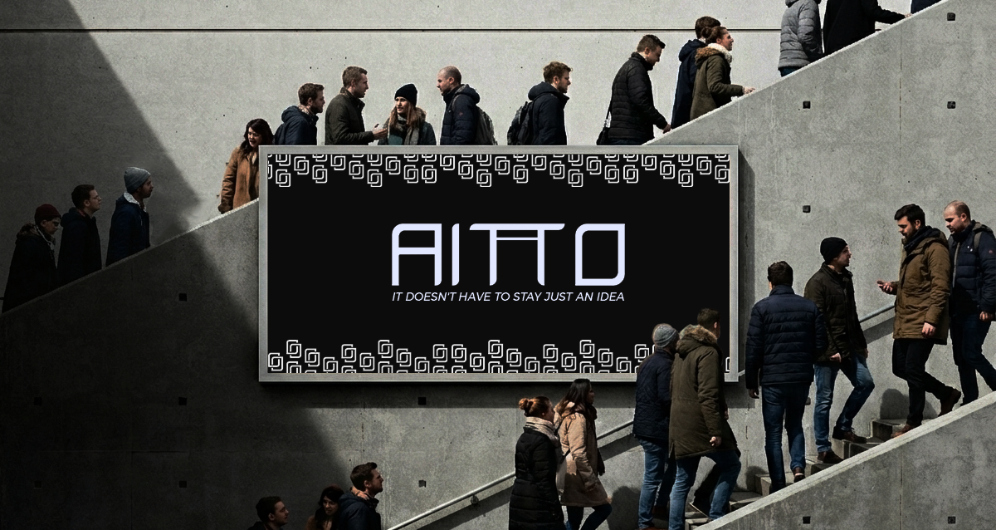
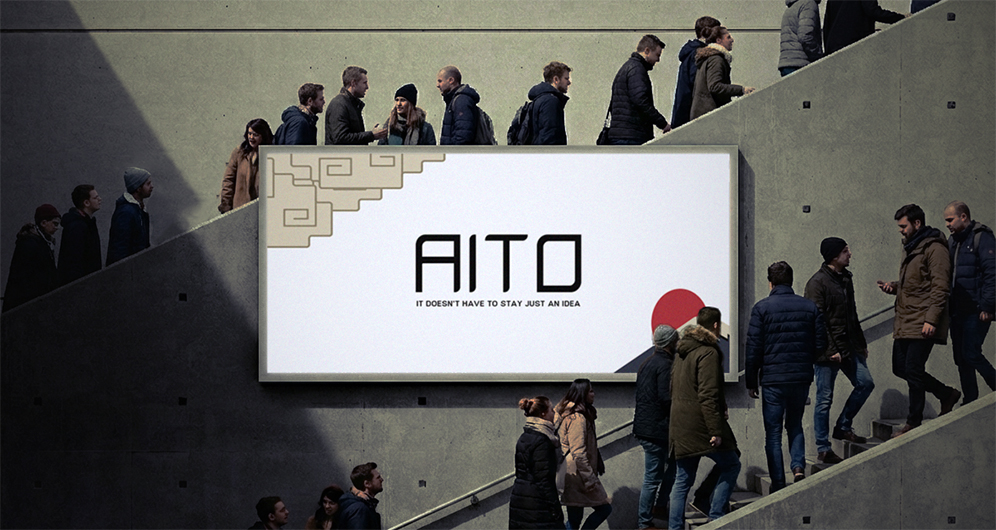
melhorias

diff --git a/Pt-br.html b/Pt-br.html
@@ -1,0 +1,85 @@
+<!DOCTYPE html>
+<html lang="en">
+<head>
+    <meta charset="UTF-8">
+    <meta http-equiv="X-UA-Compatible" content="IE=edge">
+    <meta name="viewport" content="width=device-width, initial-scale=1.0">
+    <title>AITO</title>
+   <link rel="shortcut icon" href="image/ico-p.ico" type="image/x-icon">
+    <link rel="stylesheet" href="style/all.css">
+</head>
+<body>
+    <nav>
+        <a href="/"><img src="image/aito3.png" alt="" class="logo"></a>
+        <div class="redes">
+            <a href="https://www.instagram.com/aittobranding/"
+             class="rds1 ani" target="_blank">
+                <img src="image/instagram.svg" alt="">
+            </a>
+            <a href="mailto:aittobranding@gmail.com"
+             class="rds2 ani" target="_blank">
+                <img src="image/arroba.svg" alt="">
+            </a>
+              <a href="index.html"
+             class="rds4 ani1" target="_parent">
+                <img src="image/traducao.svg" alt="">
+            </a>
+        </div>
+    </nav>
+    <img src="image/Mockup2.jpg" alt="" class="idrite">
+    <main>
+        <section class="abo">
+            <div class="about">
+                <div class="title">
+                    <h2>História Da Empresa</h2>
+                </div>
+                <p class="iam">
+                    A AITTO foi fundada em 2019 por mim, Jack Kennedy Silva. Naquela época, eu já tinha dois anos de experiência em web design e brand design, mas foi apenas em 2019 que eu realmente me especializei em design de marca. Foi isso que me levou a criar a AITTO, uma empresa focada na construção de identidades visuais.
+
+                    Enfrentei muitos desafios ao longo do caminho e quase desisti, mas, como todo bom brasileiro, segui em frente e resolvi os problemas. Como resultado, em 2024, consegui contratar meu primeiro funcionário. Atualmente a empresa conta com 11 pessoas para garantir que nossos clientes tenham resultados.
+                </p>
+            </div>
+            <div class="image">
+                <img src="image/mockups/4th.jpg" alt="" class="img">
+                <img src="image/mockups/arthur.jpg" alt="" class="img ">
+                <img src="image/mockups/darkangle.jpg" alt="" class="img">
+                <img src="image/mockups/studio7.jpg" alt="" class="img">
+            </div>
+            
+            <div class="image">
+                <img src="image/mockups/idrite.jpg" alt="" class="img tira">
+                <img src="image/mockups/hak.jpg" alt="" class="img tira">
+                <img src="image/mockups/last-lab.jpg" alt="" class="img tira">
+                <img src="image/mockups/jk.jpg" alt="" class="img tira">
+            </div>
+            <div class="skill">
+                <div class="title">
+                    <h2>QUEM SOMOS?</h2>
+                </div>
+                <p class="iam">
+                    Somos uma empresa especializada em criar identidades visuais. Isso inclui design de logotipo, tipografia, paletas de cores, papel timbrado, modelos de slides/apresentações, uniformes, manuais de marca e muito mais. Todos os nossos projetos são cuidadosamente planejados para trazer os melhores resultados para os nossos clientes.
+
+                    A identidade visual da sua marca define o seu público-alvo e o valor que você pode cobrar pelo seu produto ou serviço. Sua marca não pode ser confiada a qualquer um. Se você está procurando por um serviço de qualidade, eu ficaria feliz em trabalhar com você.
+                </p>
+            </div>
+        </section>
+        <section class="port-img">
+            <img class="imgp" src="image/port/idrite/id.jpg" alt="">
+            <img class="imgp" src="image/port/Flavory/Flavory.jpg" alt="">
+            <img class="imgp" src="image/port/4th/4th1.jpg" alt="">
+            <img class="imgp" src="image/port/dark/dark1.jpg" alt="">
+            <img class="imgp" src="image/port/carbon/carb1.jpg" alt="">
+            <img class="imgp" src="image/port/studio7/studio2.jpg" alt="">
+            <img class="imgp" src="image/port/last/last1.jpg" alt="">
+            <img class="imgp" src="image/port/os kabba/kabba1.jpg" alt="">
+            <img class="imgp" src="image/port/indra/indra.jpg" alt="">
+            <img class="imgp" src="image/port/mihail/mihail.jpg" alt="">
+            <img class="imgp" src="image/port/arthur/vender.jpg" alt="">
+            <img class="imgp" src="image/port/wake up/wake up2.png" alt="">
+        </section>
+    </main>
+    <footer>
+        <p>&copy 2026 - AITO</p>
+    </footer>
+</body>
+</html>

diff --git a/style/all.css b/style/all.css
@@ -1,9 +1,9 @@
 @charset "UTF-8";
 
 @font-face {
-    font-family: "AITOSans";
-    src: url("../font/AITOSans.ttf"); /* para IE */
-    src: local("AITOSans"), url("../font/AITOSans.ttf") format("truetype");
+    font-family: "Halfre";
+    src: url("../font/halfre.otf"); /* para IE */
+    src: local("halfre"), url("../font/halfre.otf") format("truetype");
 }
 :root {
     --color1: #0a0a0a;
@@ -12,12 +12,12 @@
     --color4: #323646;
 }
 * {
-    font-family: "AITOSans", Arial, Helvetica, sans-serif;
+    font-family: "halfre", Arial, Helvetica, sans-serif;
     margin: 0;
     padding: 0;
     overflow-x: hidden;
     box-sizing: border-box;
-    color: var(--color2);
+    color: var(--color4);
     transition: .2s;
     text-transform: uppercase;
 }
@@ -28,10 +28,10 @@ html {
     display: none;
 }
 body {
-    background: #D0C8B4;
+    background: var(--color2);
 }
 h2 {
-    color: var(--color3);
+    color: var(--color4);
 }
 a {
     text-decoration: none;
@@ -46,7 +46,7 @@ nav {
     align-items: center;
     width: 100vw;
     height: auto;
-    background: var(--color3);
+    background: var(--color4);
     padding: 5px 8%;
     padding-top: 5px;
 }
@@ -55,17 +55,18 @@ nav {
 }
 .logo {
     height: 31px;
-    width: 145px;
+    width: 95px;
 }
 .rds1 {
-    display: flex;
+   display: flex;
     justify-content: center;
     align-items: center;
     width: 40px;
     height: 40px;
-    background: var(--color1);
-    padding: 6px;
+    background: var(--color2);
+    padding: 8px;
     border-radius: 50%;
+    overflow: hidden;
 }
 .rds1 img {
     width: 40px;
@@ -73,11 +74,60 @@ nav {
 }
 .rds2 {
     display: flex;
+    justify-content: center;
+    align-items: center;
     width: 40px;
     height: 40px;
-    background: var(--color1);
+    background: var(--color2);
     padding: 8px;
     border-radius: 50%;
+    overflow: hidden;
+}
+.rds3 {
+    display: flex;
+    justify-content: center;
+    align-items: center;
+    width: 40px;
+    height: 40px;
+    background: var(--color2);
+    padding: 8px;
+    border-radius: 50%;
+    overflow: hidden;
+}
+.rds4 {
+    display: flex;
+    justify-content: center;
+    align-items: center;
+    width: 40px;
+    height: 40px;
+    background: var(--color3);
+    padding: 8px;
+    border-radius: 50%;
+    overflow: hidden;
+}
+.ani:hover {
+    animation: .2;
+    display: flex;
+    justify-content: center;
+    align-items: center;
+    width: 40px;
+    height: 40px;
+    background: var(--color2);
+    padding: 8px;
+    border-radius: 20%;
+    overflow: hidden;
+}
+.ani1:hover {
+    animation: .2;
+    display: flex;
+    justify-content: center;
+    align-items: center;
+    width: 40px;
+    height: 40px;
+    background: var(--color3);
+    padding: 8px;
+    border-radius: 20%;
+    overflow: hidden;
 }
 .redes {
     display: flex;
@@ -93,7 +143,7 @@ nav {
     align-items: center;
     height: 100vh;
     width: 100vw;
-    background: var(--color4);
+    background: var(--color2);
 }
 section{
     display: flex;
@@ -106,8 +156,8 @@ section{
     height: auto;
 }
 ::selection{
-    background: var(--color2);
-    color: var(--color1);
+    background: var(--color4);
+    color: var(--color3);
 }
 .iam {
     font-size: 1.3em;
@@ -146,7 +196,8 @@ section{
     flex-direction: row;
     justify-content: space-between;
     align-items: center;
-    background: var(--color1);
+    background: url(../image/fuji.png) var(--color2) center center no-repeat fixed;
+    background-size: cover;
     height: auto;
     padding: 0px 90px;
     overflow: hidden;
@@ -276,18 +327,18 @@ footer p::selection {
 
 @media (max-width: 700px) {
     body {
-        background: #0a0a0a url('../image/Urban.jpg') center no-repeat fixed ;
+        background: var(--color2) url('../image/Urban.jpg') center no-repeat fixed ;
         background-size: cover;
     }
     .logo {
     height: 25px;
-    width: 125px;
+    width: 80px;
     }
     .rds1 {
         display: flex;
         width: 38px;
         height: 38px;
-        background: var(--color1);
+        background: var(--color2);
         padding: 8px;
         border-radius: 50%;
     }
@@ -295,7 +346,7 @@ footer p::selection {
         display: flex;
         width: 38px;
         height: 38px;
-        background: var(--color1);
+        background: var(--color2);
         padding: 8px;
         border-radius: 50%;
     }
@@ -336,6 +387,7 @@ footer p::selection {
     }
     .abo {
         height: auto;
+        background: var(--color2);
     }
     .skill {
         display: flex;

diff --git a/index.html b/index.html
@@ -10,28 +10,33 @@
 </head>
 <body>
     <nav>
-        <a href="/"><img src="image/logo2.png" alt="" class="logo"></a>
+        <a href="/"><img src="image/aito3.png" alt="" class="logo"></a>
         <div class="redes">
             <a href="https://www.instagram.com/aittobranding/"
-             class="rds1" target="_blank">
+             class="rds1 ani" target="_blank">
                 <img src="image/instagram.svg" alt="">
             </a>
             <a href="mailto:aittobranding@gmail.com"
-             class="rds2" target="_blank">
+             class="rds2 ani" target="_blank">
                 <img src="image/arroba.svg" alt="">
+            </a>
+              <a href="Pt-br.html"
+             class="rds3 ani" target="_parent">
+                <img src="image/traducao.svg" alt="">
             </a>
         </div>
     </nav>
+    <img src="image/Mockup2.jpg" alt="" class="idrite">
     <main>
         <section class="abo">
             <div class="about">
                 <div class="title">
-                    <h2>História Da Empresa</h2>
+                    <h2>Company History</h2>
                 </div>
                 <p class="iam">
-                    A AITTO foi fundada em 2019 por mim, Jack Kennedy Silva. Naquela época, eu já tinha dois anos de experiência em web design e brand design, mas foi apenas em 2019 que eu realmente me especializei em design de marca. Foi isso que me levou a criar a AITTO, uma empresa focada na construção de identidades visuais.
+                    AITO was founded in 2019 by me, Jack Kennedy Silva. At that time, I already had two years of experience in web design and brand design, but it was in 2019 that I truly specialized in brand design. That is what led me to create AITO, a company focused on building visual identities.
 
-                    Enfrentei muitos desafios ao longo do caminho e quase desisti, mas, como todo bom brasileiro, segui em frente e resolvi os problemas. Como resultado, em 2024, consegui contratar meu primeiro funcionário. Atualmente a empresa conta com 11 pessoas para garantir que nossos clientes tenham resultados.
+                    I faced many challenges along the way and almost gave up, but, like any true Brazilian, I pushed forward and solved the problems. As a result, in 2024, I was able to hire my first employee. Today, the company relies on a team of 11 people to ensure our clients achieve results.
                 </p>
             </div>
             <div class="image">
@@ -40,7 +45,7 @@
                 <img src="image/mockups/darkangle.jpg" alt="" class="img">
                 <img src="image/mockups/studio7.jpg" alt="" class="img">
             </div>
-            <img src="image/Mockup2.jpg" alt="" class="idrite">
+            
             <div class="image">
                 <img src="image/mockups/idrite.jpg" alt="" class="img tira">
                 <img src="image/mockups/hak.jpg" alt="" class="img tira">
@@ -49,12 +54,12 @@
             </div>
             <div class="skill">
                 <div class="title">
-                    <h2>QUEM SOMOS?</h2>
+                    <h2>ABOUT US</h2>
                 </div>
                 <p class="iam">
-                    Somos uma empresa especializada em criar identidades visuais. Isso inclui design de logotipo, tipografia, paletas de cores, papel timbrado, modelos de slides/apresentações, uniformes, manuais de marca e muito mais. Todos os nossos projetos são cuidadosamente planejados para trazer os melhores resultados para os nossos clientes.
+                    We are a agency specialized in creating visual identities. This includes logo design, typography, color palettes, letterheads, slide and presentation templates, uniforms, brand guidelines, and much more. All of our projects are carefully planned to deliver the best results for our clients.
 
-                    A identidade visual da sua marca define o seu público-alvo e o valor que você pode cobrar pelo seu produto ou serviço. Sua marca não pode ser confiada a qualquer um. Se você está procurando por um serviço de qualidade, eu ficaria feliz em trabalhar com você.
+                    Your brand's visual identity defines your target audience and the value you can charge for your product or service. Your brand cannot be trusted to just anyone. If you are looking for quality service, I would be happy to work with you.
                 </p>
             </div>
         </section>
